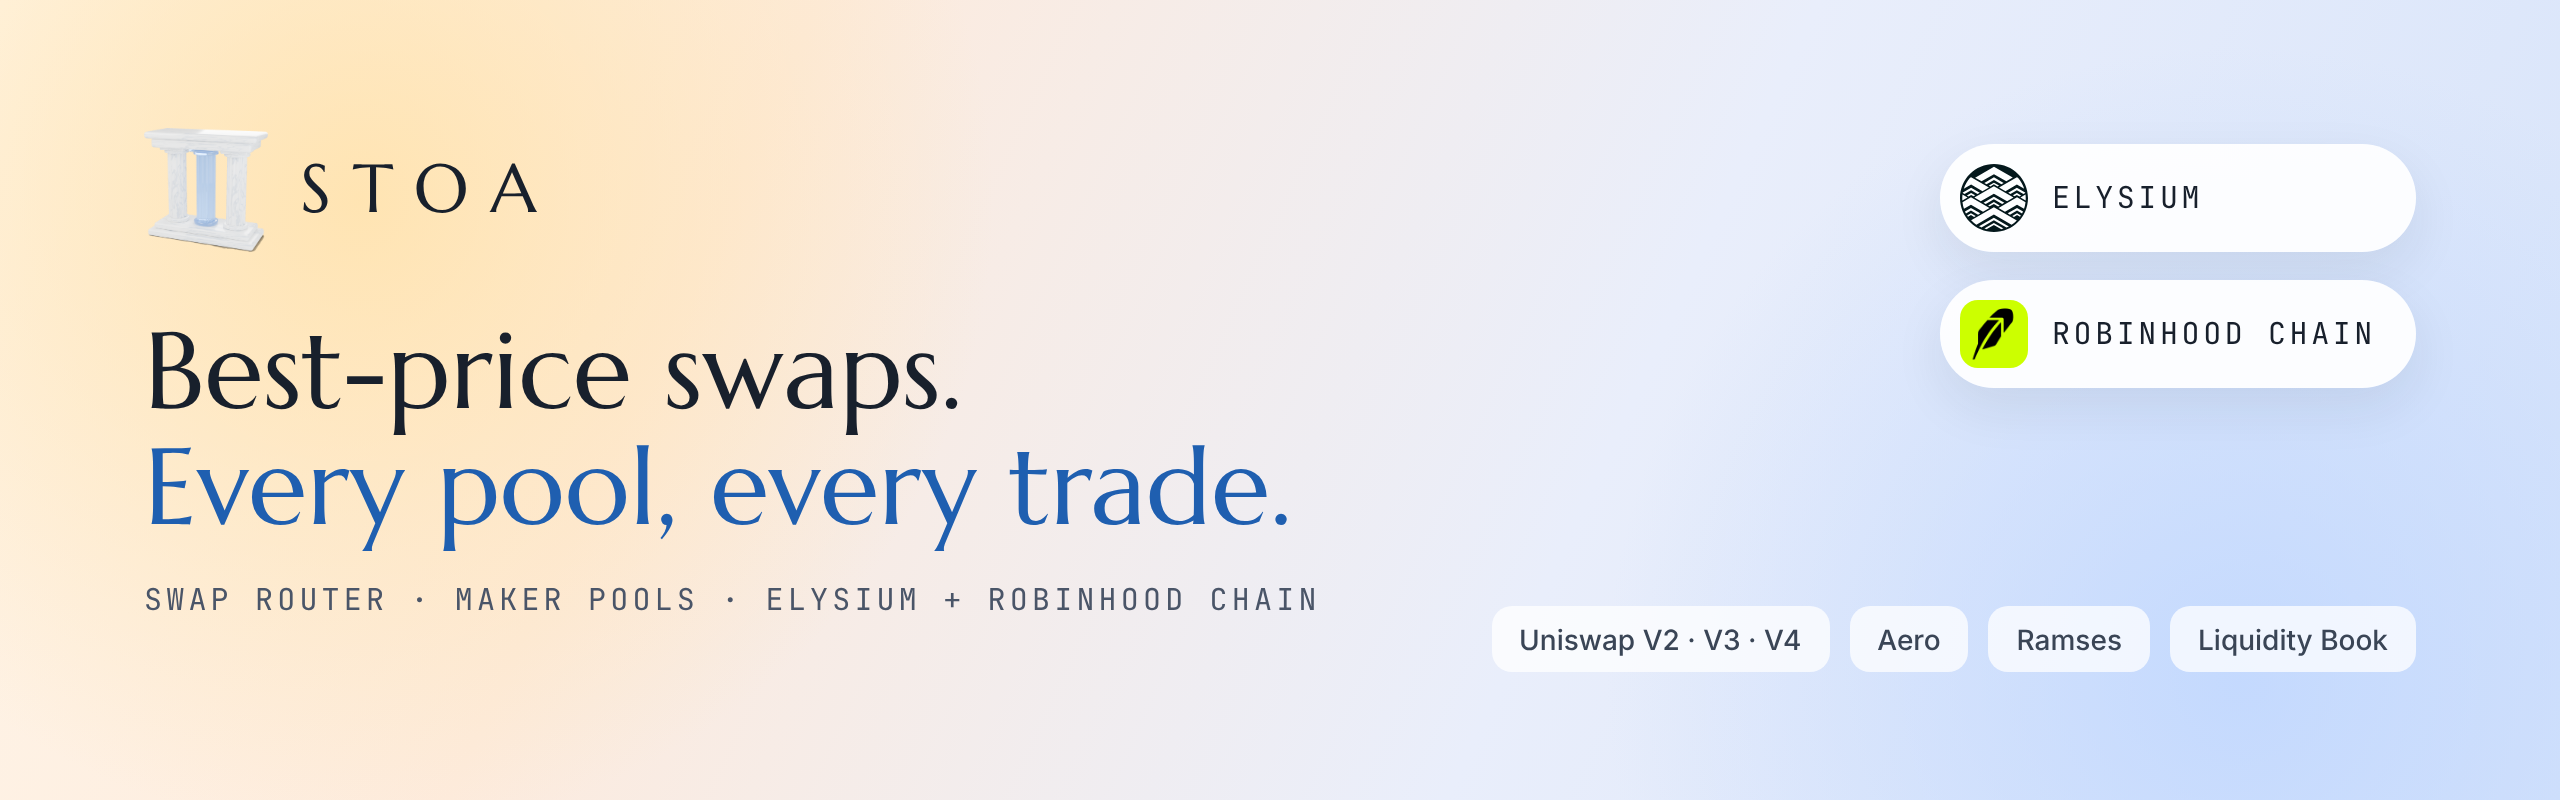
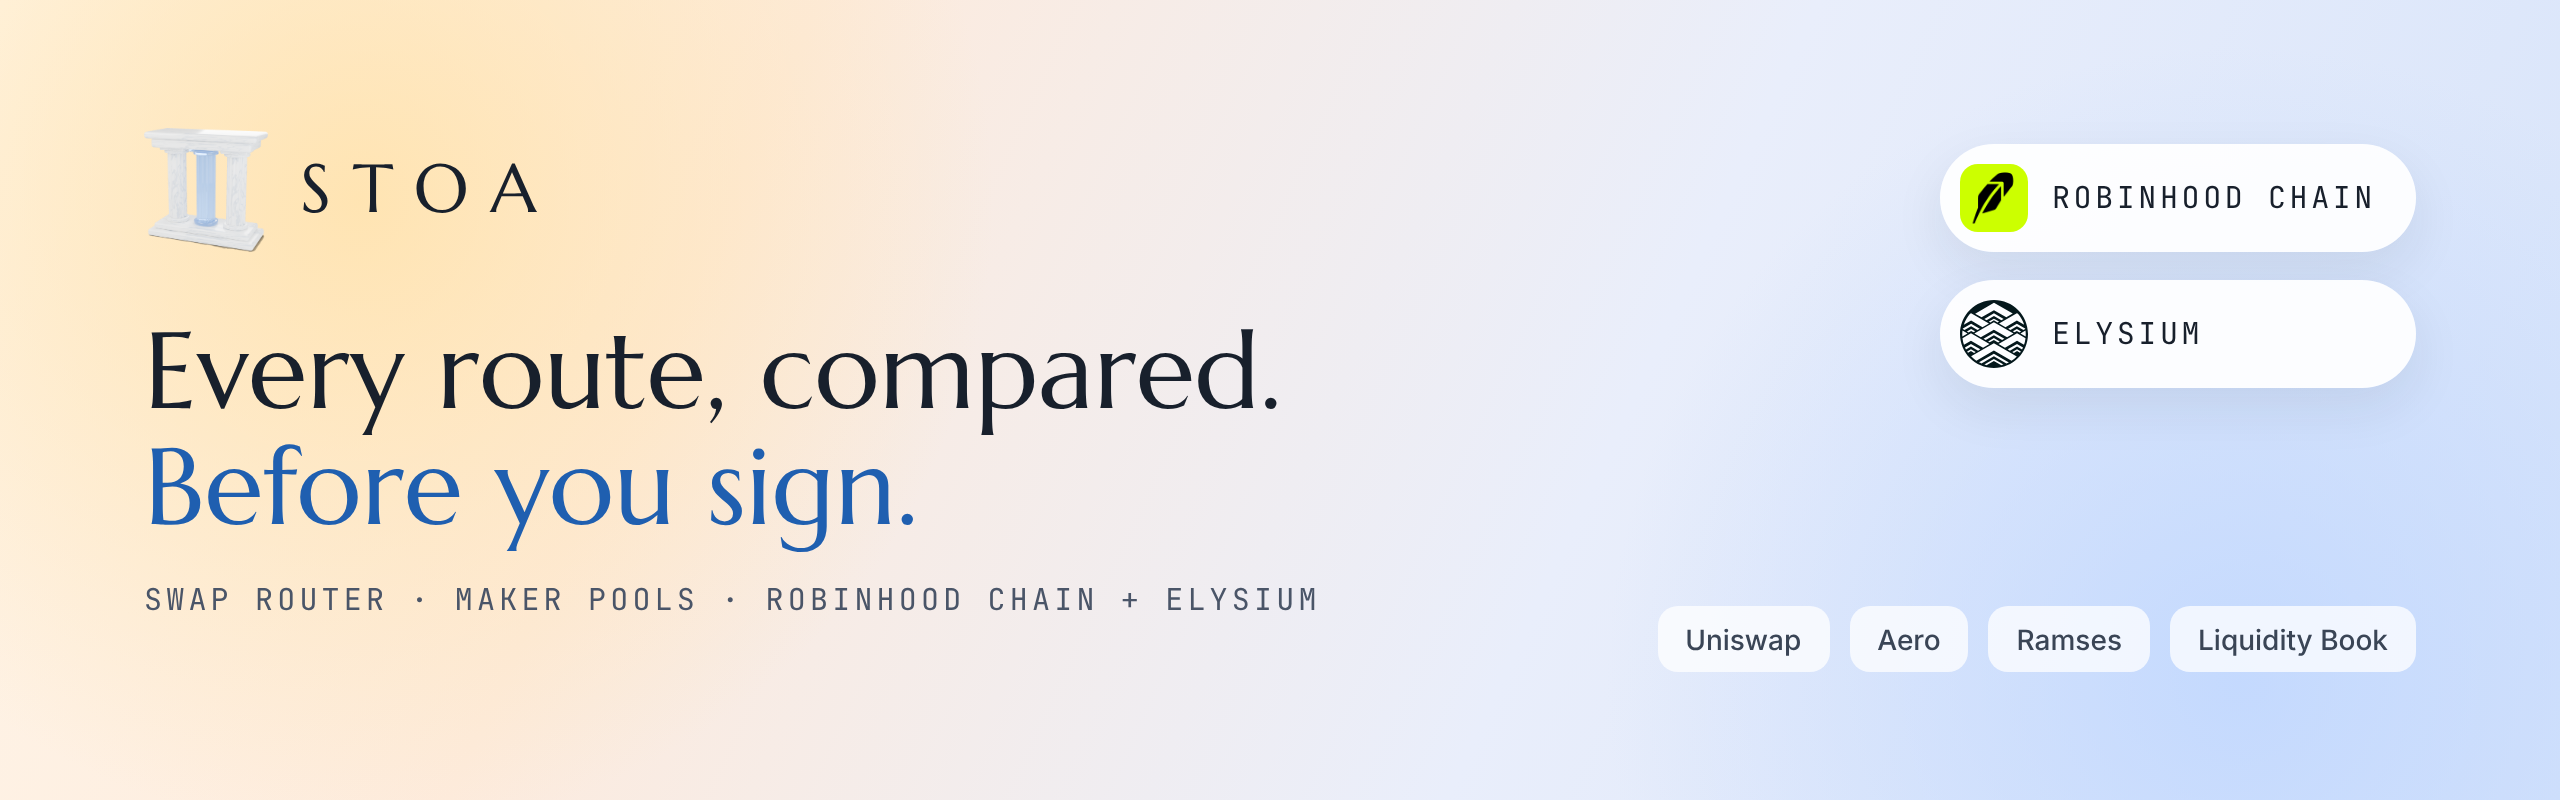
Robinhood Chain first, plainer claims, cookieless visit counts
- A first visit opens on Robinhood Chain (app default, and the first chain WalletConnect asks for). A network picked
  before, a ?chain= link and the wallet's chain still win.
- No more "best price": site copy, metadata, the share image (og-v4.png), share texts, embed, docs, README and banner
  say Stoa compares every venue its router uses and fills on the best one. The FAQ adds that it sends each swap along
  one route, so an aggregator that splits orders can give more on large ones. The images name only the venues live
  today; Aero, Ramses and Pons are added with their rollout.
- Vercel Web Analytics (@vercel/analytics 2.0.1): no cookies; wallet addresses, transaction hashes and referral
  addresses are removed from the page address before anything is sent (lib/analyticsUrl.ts, with tests). The privacy
  section now says what is counted, and that chain data is public on Robinhood Chain too.
- The 12 tokens with no route on Stoa are off the Robinhood Chain popular list.
- /swap and /swap/<chain> open Trade.
- Changelog entry for all of the above.

Claude-Session: https://claude.ai/code/session_01XXgfV4JpyoiVVdoRDuWXNm

diff --git a/web/app/layout.tsx b/web/app/layout.tsx
@@ -1,15 +1,16 @@
 import type { Metadata, Viewport } from "next";
 import Providers from "@/components/Providers";
+import SiteAnalytics from "@/components/SiteAnalytics";
 import { SITE } from "@/lib/chain";
 import "./globals.css";
 
 export const metadata: Metadata = {
   metadataBase: new URL(SITE),
-  title: { default: "Stoa — Best-price swaps on Robinhood Chain and Elysium", template: "%s · Stoa" },
-  description: "The best-price swap router on Elysium and Robinhood Chain. Every swap is checked against every major venue and filled where the price is best.",
+  title: { default: "Stoa — Every route, compared. Swaps on Robinhood Chain and Elysium", template: "%s · Stoa" },
+  description: "A swap router on Robinhood Chain and Elysium. Every swap is compared across every venue the router uses, for your exact amount, and filled on the best one.",
   // no fixed title or url here, so each page's own title is used when a link is shared
-  openGraph: { description: "Swap at the best price on Elysium and Robinhood Chain. Every pool checked on every trade.", siteName: "Stoa", type: "website", images: [{ url: "/og-v3.png", width: 1200, height: 630, alt: "Stoa: swap at the best price on Elysium and Robinhood Chain" }] },
-  twitter: { card: "summary_large_image", site: "@StoaDex", description: "Swap at the best price on Elysium and Robinhood Chain. Every pool checked on every trade.", images: ["/og-v3.png"] },
+  openGraph: { description: "Swap on Robinhood Chain and Elysium. Every venue the router uses, compared on every swap.", siteName: "Stoa", type: "website", images: [{ url: "/og-v4.png", width: 1200, height: 630, alt: "Stoa: every route, compared. Swaps on Robinhood Chain and Elysium" }] },
+  twitter: { card: "summary_large_image", site: "@StoaDex", description: "Swap on Robinhood Chain and Elysium. Every venue the router uses, compared on every swap.", images: ["/og-v4.png"] },
   // installed as an app (manifest.ts): name and status bar on iPhone home screens
   appleWebApp: { capable: true, title: "Stoa", statusBarStyle: "default" },
 };
@@ -19,7 +20,7 @@ const LD = [
   { "@context": "https://schema.org", "@type": "WebSite", name: "Stoa", url: SITE },
   {
     "@context": "https://schema.org", "@type": "WebApplication", name: "Stoa", url: `${SITE}/trade`, applicationCategory: "FinanceApplication", operatingSystem: "Web",
-    description: "Best-price swap router on Robinhood Chain and Elysium: every swap is checked across every venue and filled where the price is best.",
+    description: "Swap router on Robinhood Chain and Elysium: every swap is compared across every venue the router uses and filled on the best one.",
   },
 ];
 export const viewport: Viewport = { themeColor: "#EEF2F6", width: "device-width", initialScale: 1 };
@@ -36,6 +37,7 @@ export default function RootLayout({ children }: { children: React.ReactNode }) 
       <body>
         <script type="application/ld+json" dangerouslySetInnerHTML={{ __html: JSON.stringify(LD) }} />
         <Providers>{children}</Providers>
+        <SiteAnalytics />
       </body>
     </html>
   );

diff --git a/web/components/Trade.tsx b/web/components/Trade.tsx
@@ -375,7 +375,7 @@ function TradeOn({ net }: { net: Net }) {
   else if (!deployed && kind !== "wrap" && kind !== "unwrap") { label = "Opens at launch"; disabled = true; }
   else if (isPaused && kind !== "wrap" && kind !== "unwrap") { label = "Swaps paused"; disabled = true; }
   else if (sBal !== undefined && amt + (cover.on ? cover.premium : 0n) > sBal) { label = `Not enough ${sell.symbol}`; disabled = true; }
-  else if (quoting && !quote) { label = "Finding the best price…"; disabled = true; }
+  else if (quoting && !quote) { label = "Finding the best route…"; disabled = true; }
   else if (noRoute || !quote) { label = "No route for this pair"; disabled = true; }
   else if (risky && !ackToken) { label = "Confirm the token warning"; disabled = true; }
   else if (quote.impact >= IMPACT_BLOCK && !ackImpact) { label = "Confirm high price impact"; disabled = true; }
@@ -520,7 +520,7 @@ function TradeOn({ net }: { net: Net }) {
         {msg && !done && <div className={msg.ok ? "ok" : "err"}>{msg.text}{msg.hash && <> · <a href={txUrl(msg.hash)} target="_blank" rel="noopener noreferrer">View</a></>}</div>}
         {done && (() => {
           const link = `${SITE}/swap/${done.net}/${done.hash}${address ? `?ref=${address}` : ""}`;
-          const text = `Swapped ${done.inTxt} ${done.symIn} for ${done.outTxt} ${done.symOut} on @StoaDEX. Every venue checked, filled at the best one.`;
+          const text = `Swapped ${done.inTxt} ${done.symIn} for ${done.outTxt} ${done.symOut} on @StoaDEX. Every route compared, filled on the best one.`;
           const post = `https://x.com/intent/tweet?text=${encodeURIComponent(text)}&url=${encodeURIComponent(link)}`;
           return (
             <div className="sharecard">

diff --git a/web/test/analytics.test.ts b/web/test/analytics.test.ts
@@ -1,0 +1,22 @@
+import { test } from "node:test";
+import assert from "node:assert/strict";
+import { analyticsUrl } from "../lib/analyticsUrl";
+
+const W = "0x5A63C75B38e7ee42220Cc3A57702E06D1D8903c9";
+const TX = "0xf2658e034d01" + "ab".repeat(26);
+
+test("analyticsUrl: no wallet address or transaction hash leaves the browser", () => {
+  assert.equal(analyticsUrl(`https://stoadex.com/wrapped/${W}`), "https://stoadex.com/wrapped/[address]");
+  assert.equal(analyticsUrl(`https://stoadex.com/swap/robinhood/${TX}`), "https://stoadex.com/swap/robinhood/[hash]");
+  assert.equal(analyticsUrl(`https://stoadex.com/trade?ref=${W}`), "https://stoadex.com/trade?ref=1");
+  assert.equal(analyticsUrl(`https://stoadex.com/trade?chain=robinhood&buy=0x13E6993417616De724F2b337D65063f229e96718&ref=${W}#x`), "https://stoadex.com/trade?chain=robinhood&ref=1");
+  for (const u of [`https://stoadex.com/wrapped/${W}?ref=${W}`, `https://stoadex.com/portfolio?address=${W}`, `https://stoadex.com/x#${W}`])
+    assert.ok(!analyticsUrl(u).toLowerCase().includes(W.slice(2, 12).toLowerCase()), u);
+});
+
+test("analyticsUrl: keeps what is worth counting", () => {
+  assert.equal(analyticsUrl("https://stoadex.com/"), "https://stoadex.com/");
+  assert.equal(analyticsUrl("https://stoadex.com/trade?chain=elysium&utm_source=x&utm_campaign=hey"), "https://stoadex.com/trade?chain=elysium&utm_source=x&utm_campaign=hey");
+  assert.equal(analyticsUrl("https://stoadex.com/tokens/robinhood/0x13E6993417616De724F2b337D65063f229e96718"), "https://stoadex.com/tokens/robinhood/0x13E6993417616De724F2b337D65063f229e96718");
+  assert.equal(analyticsUrl("https://stoadex.com/swap/robinhood"), "https://stoadex.com/swap/robinhood");
+});

diff --git a/web/components/WrappedCard.tsx b/web/components/WrappedCard.tsx
@@ -34,7 +34,7 @@ export function WrappedCard({ w }: { w: Wrapped }) {
         {w.swaps ? (
           <>
             <div className="wr-big">{usd(w.usd)}</div>
-            <div className="wr-sub">routed at the best price, in {w.swaps} {w.swaps === 1 ? "swap" : "swaps"}</div>
+            <div className="wr-sub">routed through Stoa, in {w.swaps} {w.swaps === 1 ? "swap" : "swaps"}</div>
           </>
         ) : (
           <>
@@ -53,7 +53,7 @@ export function WrappedCard({ w }: { w: Wrapped }) {
           <div><span>SWAPS REFERRED</span><b>{w.referred}</b></div>
         </div>
         <div className="wr-chains">{w.chains.map((c) => <span key={c.key} className={c.swaps ? "on" : undefined}>{c.name} · {c.swaps}</span>)}</div>
-        <div className="wr-foot">EVERY SWAP CHECKS EVERY VENUE · STOADEX.COM</div>
+        <div className="wr-foot">EVERY ROUTE COMPARED · STOADEX.COM</div>
       </div>
     </div>
   );
@@ -66,7 +66,7 @@ export function WrappedActions({ w }: { w: Wrapped }) {
   const mine = address && address.toLowerCase() === w.address.toLowerCase();
   const url = `https://stoadex.com/wrapped/${w.address}?ref=${w.address}`;
   const text = w.swaps
-    ? `My Stoa Wrapped: ${usd(w.usd)} routed in ${w.swaps} ${w.swaps === 1 ? "swap" : "swaps"}, each at the best price across every venue. ${w.edition} edition 🏛`
+    ? `My Stoa Wrapped: ${usd(w.usd)} routed in ${w.swaps} ${w.swaps === 1 ? "swap" : "swaps"}, each on the best route the router found. ${w.edition} edition 🏛`
     : "My Stoa Wrapped is waiting for its first swap 🏛";
   const x = `https://x.com/intent/post?text=${encodeURIComponent(text)}&url=${encodeURIComponent(url)}`;
   return (

diff --git a/web/components/Providers.tsx b/web/components/Providers.tsx
@@ -3,19 +3,20 @@ import { createContext, useCallback, useContext, useEffect, useState, type React
 import { WagmiProvider, useAccount, useSwitchChain } from "wagmi";
 import { QueryClient, QueryClientProvider } from "@tanstack/react-query";
 import { wagmiConfig } from "@/lib/wagmi";
-import { ELYSIUM, netById, netByKey, type Net } from "@/lib/networks";
+import { ROBINHOOD, netById, netByKey, type Net } from "@/lib/networks";
 import WalletModal from "./WalletModal";
 
 const WalletCtx = createContext<{ open: () => void }>({ open: () => {} });
 export const useWalletModal = () => useContext(WalletCtx);
 
-const NetCtx = createContext<{ net: Net; setNet: (n: Net) => void }>({ net: ELYSIUM, setNet: () => {} });
-/** The network the app is showing. It follows the wallet's chain when the wallet is on a supported one. */
+const NetCtx = createContext<{ net: Net; setNet: (n: Net) => void }>({ net: ROBINHOOD, setNet: () => {} });
+/** The network the app is showing: Robinhood Chain for a first visit, then the one picked last (or named in ?chain=),
+ *  and the wallet's chain whenever the wallet is on a supported one. */
 export const useNet = () => useContext(NetCtx).net;
 export const useSetNet = () => useContext(NetCtx).setNet;
 
 function NetProvider({ children }: { children: ReactNode }) {
-  const [net, setNetState] = useState<Net>(ELYSIUM);
+  const [net, setNetState] = useState<Net>(ROBINHOOD);
   const { chainId, isConnected } = useAccount();
   const { switchChain } = useSwitchChain();
   useEffect(() => {

diff --git a/web/app/(app)/tokens/[chain]/[address]/opengraph-image.tsx b/web/app/(app)/tokens/[chain]/[address]/opengraph-image.tsx
@@ -35,14 +35,14 @@ export default async function Image({ params }: { params: Promise<{ chain: strin
   );
   return new ImageResponse(
     (
-      <OgFrame url={`stoadex.com/tokens`} network={hit?.net.key === "elysium" ? "elysium" : "robinhood"} foot="BEST PRICE ACROSS EVERY VENUE · LIVE">
+      <OgFrame url={`stoadex.com/tokens`} network={hit?.net.key === "elysium" ? "elysium" : "robinhood"} foot="EVERY ROUTE COMPARED · LIVE">
         <div style={{ display: "flex", flexDirection: "column", marginTop: 28 }}>
           <div style={{ display: "flex", alignItems: "center", gap: 24 }}>
             {img
               ? <img src={img} width={112} height={112} style={{ borderRadius: 999, objectFit: "cover", boxShadow: "0 14px 30px rgba(24,32,44,.14)" }} />
               : <div style={{ width: 112, height: 112, borderRadius: 999, background: "#EAF1FB", color: BLUE, display: "flex", alignItems: "center", justifyContent: "center", fontSize: 52, fontWeight: 700 }}>{sym.slice(0, 1)}</div>}
             <div style={{ display: "flex", flexDirection: "column" }}>
-              <span style={{ fontFamily: "Marcellus", fontSize: 30, color: MUTED }}>Buy at the best price</span>
+              <span style={{ fontFamily: "Marcellus", fontSize: 30, color: MUTED }}>Every route, compared</span>
               <span style={{ fontFamily: "Marcellus", fontSize: 76, lineHeight: 1.05 }}>{sym.slice(0, 14)}</span>
             </div>
           </div>

diff --git a/web/app/(app)/tokens/[chain]/[address]/page.tsx b/web/app/(app)/tokens/[chain]/[address]/page.tsx
@@ -23,7 +23,7 @@ export async function generateMetadata({ params }: P): Promise<Metadata> {
   const sym = hit.token.symbol, netName = hit.net.name, url = `/tokens/${hit.net.key}/${hit.token.address}`;
   const title = `Buy ${sym} on ${netName}`;
   const price = t?.priceUsd ? `${sym} trades at ${priceFmt(t.priceUsd)}. ` : "";
-  const description = `${price}Swap ${sym} on Stoa at the best price: every venue on ${netName} is checked on every swap. Contract ${hit.token.address}.`;
+  const description = `${price}Swap ${sym} on Stoa: every venue the router uses on ${netName} is compared on every swap. Contract ${hit.token.address}.`;
   return {
     title, description,
     alternates: { canonical: url },
@@ -50,9 +50,9 @@ export default async function TokenPage({ params }: P) {
   return (
     <section className="page">
       <RefKeeper />
-      <PageHead eyebrow={`TOKEN · ${net.name.toUpperCase()}`} title={`Buy ${sym} at the best price`}
+      <PageHead eyebrow={`TOKEN · ${net.name.toUpperCase()}`} title={`Buy ${sym} on Stoa`}
         action={<Link className="cta" href={buy}>Buy {sym}</Link>}>
-        Stoa checks every venue on {net.name} on every swap and fills where you get the most, for a 2 bps fee.
+        Stoa compares every venue it routes on {net.name} on every swap and fills where you get the most, for a 2 bps fee.
       </PageHead>
 
       <div className="grid2">

diff --git a/web/components/TokenShare.tsx b/web/components/TokenShare.tsx
@@ -20,7 +20,7 @@ export default function TokenShare({ chain, address, symbol }: { chain: string; 
       </p>
       <div style={{ display: "flex", gap: 10, marginTop: 12, flexWrap: "wrap" }}>
         <button type="button" className="ghost" style={{ borderColor: "var(--line)", background: "#fff" }}
-          onClick={async () => { if ((await shareOrCopy(link, `Buy ${symbol} at the best price on @StoaDEX`)) === "copied") flash("link"); }}>
+          onClick={async () => { if ((await shareOrCopy(link, `Buy ${symbol} on @StoaDEX`)) === "copied") flash("link"); }}>
           {copied === "link" ? "Link copied" : "Share this page"}
         </button>
         <button type="button" className="ghost" style={{ borderColor: "var(--line)", background: "#fff" }}
@@ -28,7 +28,7 @@ export default function TokenShare({ chain, address, symbol }: { chain: string; 
           {copied === "embed" ? "Embed code copied" : "Copy embed code"}
         </button>
       </div>
-      <p className="note">The embed shows {symbol}&apos;s best price on Stoa with a Buy button for any website. <a href="/docs/embed">How it works</a></p>
+      <p className="note">The embed shows {symbol}&apos;s live quote on Stoa with a Buy button for any website. <a href="/docs/embed">How it works</a></p>
     </div>
   );
 }

diff --git a/web/lib/changelog.ts b/web/lib/changelog.ts
@@ -12,6 +12,19 @@ export type Change = {
 
 export const CHANGES: Change[] = [
   {
+    id: "robinhood-default-visit-counts",
+    date: "2026-11-16",
+    title: "Robinhood Chain first, plainer claims, visit counts",
+    tag: "Both chains",
+    items: [
+      "A first visit now opens on Robinhood Chain. A network you picked before, a ?chain= link and your wallet's chain still come first.",
+      "The site no longer says \"best price\". Stoa compares every venue its router uses, for your exact amount, and fills on the best one; it does not split an order across venues, and an aggregator that does can give more on large orders. The FAQ says so.",
+      "Tokens that have no route on Stoa are off the Robinhood Chain token list. /swap now opens Trade.",
+      "Stoa now counts visits with Vercel Web Analytics: no cookies, a visitor is a hash discarded after 24 hours, and wallet addresses, transaction hashes and referral addresses are removed before anything is sent. The privacy section says exactly what is recorded.",
+    ],
+    link: { href: "/docs/terms-privacy", label: "Read the privacy section" },
+  },
+  {
     id: "bounty-low-credit",
     date: "2026-11-16",
     title: "Bug bounty: from 18 November, Low findings are credited, not paid",

diff --git a/web/components/Journey.tsx b/web/components/Journey.tsx
@@ -74,7 +74,7 @@ export default function Journey() {
 
       {failed ? (
         <section className="hero" style={{ position: "relative" }}>
-          <h1>STOA</h1><p>THE MARKET, QUOTED LIVE.</p><span className="sub">Best-price swaps on Elysium and Robinhood Chain.</span>
+          <h1>STOA</h1><p>THE MARKET, QUOTED LIVE.</p><span className="sub">Every route compared, on Robinhood Chain and Elysium.</span>
           <div className="heroca"><StoaCA short /></div>
           <StoaPulse />
           <div className="btns" style={{ pointerEvents: "auto", marginTop: 20 }}><Link className="cta" href="/trade">Launch app</Link><Link className="ghost" href="/docs">Read the docs</Link></div>
@@ -82,7 +82,7 @@ export default function Journey() {
       ) : (
         <>
           <section className="hero" style={{ opacity: hero, transform: `translateY(${(1 - hero) * -30}px)` }}>
-            <h1>STOA</h1><p>THE MARKET, QUOTED LIVE.</p><span className="sub">Best-price swaps on Elysium and Robinhood Chain.</span>
+            <h1>STOA</h1><p>THE MARKET, QUOTED LIVE.</p><span className="sub">Every route compared, on Robinhood Chain and Elysium.</span>
             <div className="heroca"><StoaCA short /></div>
           <StoaPulse />
           </section>

diff --git a/web/app/(app)/trade/page.tsx b/web/app/(app)/trade/page.tsx
@@ -5,15 +5,15 @@ import { PageHead } from "@/components/ui";
 import AppInstall from "@/components/AppInstall";
 
 export const metadata: Metadata = {
-  title: "Swap at the best price on Elysium and Robinhood Chain",
-  description: "Swap any token on Robinhood Chain and Elysium at the best price: Stoa checks every venue for your exact amount and fills where you get the most.",
+  title: "Swap on Robinhood Chain and Elysium",
+  description: "Swap any listed token on Robinhood Chain and Elysium. Stoa compares every venue it routes for your exact amount and fills where you get the most, for a 2 bps fee.",
   alternates: { canonical: "/trade" },
 };
 
 export default function TradePage() {
   return (
     <section className="page">
-      <PageHead eyebrow="I · TRADE" title="Swap at the best price">Every swap checks every venue on the network you pick and fills where you get the most.</PageHead>
+      <PageHead eyebrow="I · TRADE" title="Every route, compared">Every swap checks every venue Stoa routes on the network you pick, for your exact amount, and fills where you get the most.</PageHead>
       <Suspense><Trade /></Suspense>
       <AppInstall variant="banner" />
     </section>

diff --git a/web/lib/analyticsUrl.ts b/web/lib/analyticsUrl.ts
@@ -1,0 +1,20 @@
+// query values worth counting (which network, which campaign); everything else in the query is dropped
+const KEEP = ["chain", "utm_source", "utm_medium", "utm_campaign"];
+
+/** The page address as Vercel Web Analytics receives it: wallet addresses and transaction hashes out of the path
+ *  (Wrapped and shared swap pages), the referrer's address out of referral links, and every other query value and the
+ *  fragment dropped. The data then shows which pages people open and where they came from, never who they are.
+ *  What the privacy section of /docs/terms-privacy promises; change both together. */
+export function analyticsUrl(url: string): string {
+  const u = new URL(url);
+  u.pathname = u.pathname.replace(/^\/wrapped\/[^/]+/, "/wrapped/[address]").replace(/^\/swap\/([^/]+)\/[^/]+/, "/swap/$1/[hash]");
+  const q = new URLSearchParams();
+  for (const k of KEEP) {
+    const v = u.searchParams.get(k);
+    if (v) q.set(k, v);
+  }
+  if (u.searchParams.has("ref")) q.set("ref", "1"); // came through a referral link; whose link stays out
+  u.search = q.toString();
+  u.hash = "";
+  return u.toString();
+}
